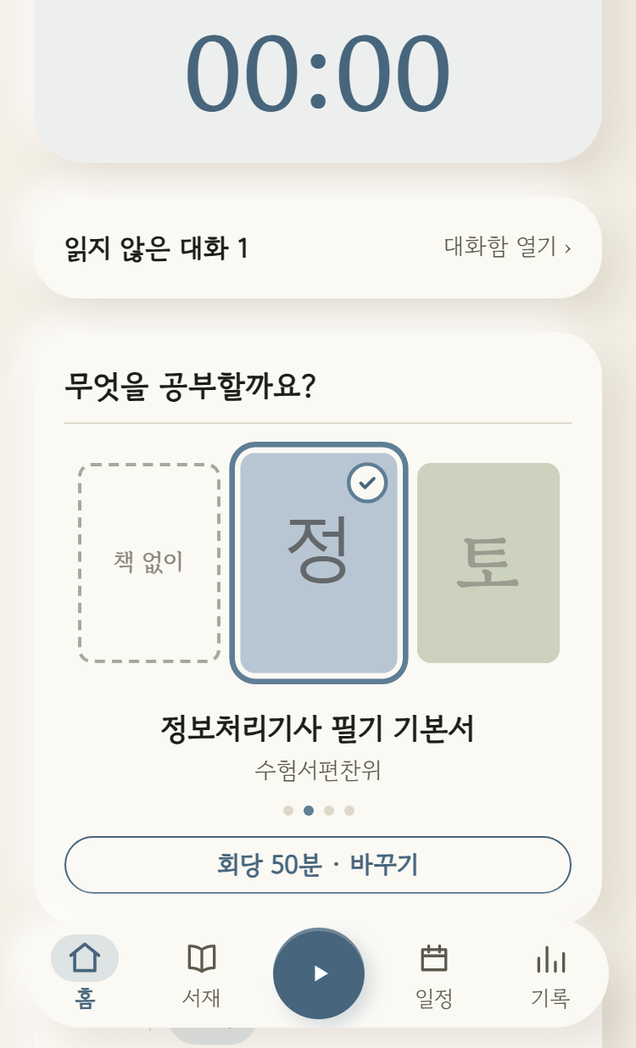
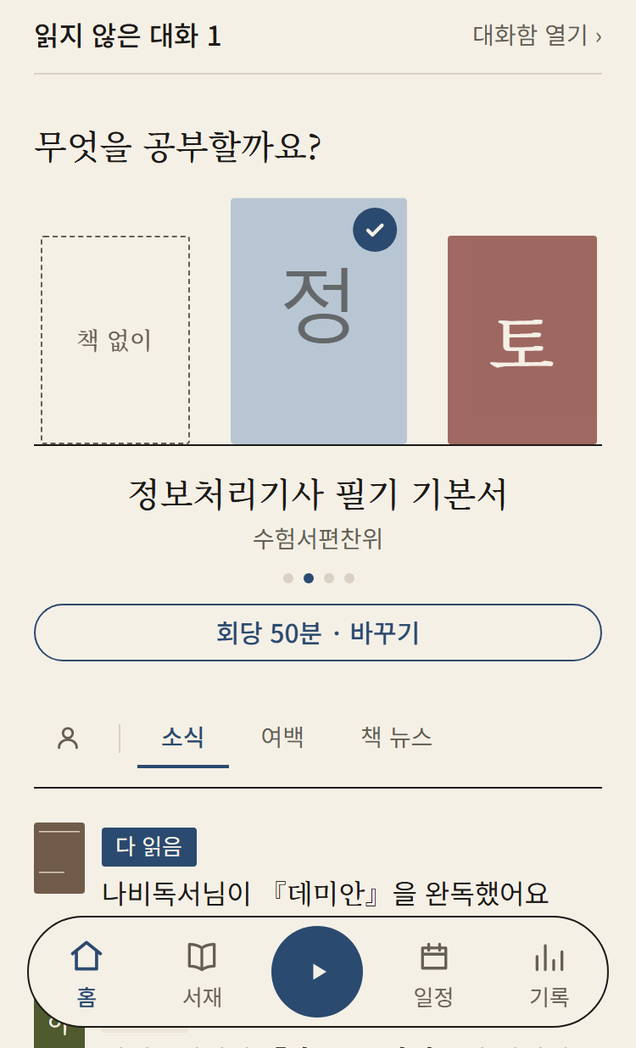
docs(미니앱): 에디토리얼 재테마 PR-5 — 스토어 스크린샷 9장 재촬영
- 9장 전부 재촬영(01-home·02-feed·03-library·04-history·05-goal·06-study-home·
  07-study-library·08-study-calendar·10-landscape) — 미색·잉크·명조, 홈 아치 + 오늘 표, 서재 아치 + 선반
- shoot.mjs: 촬영 전 Noto Serif KR 500 face `loaded` 신호 대기(15초 넘으면 죽는다) → document.fonts.ready,
  `--block-fonts` 음성 대조 경로 추가(U-15). 컷마다 촬영 직전 document.fonts.ready도 기다린다
- 03 서재 구도: 아치 꼭대기 12px · 선반 1·2단 · 걸친 「여백에 글쓰기」 알약(가리면 죽는다)
- 06 공부 홈 구도: 커진 시계가 윗변에 반토막 나지 않게 아치를 화면 밖으로(아치를 못 찾으면 죽는다)
- 배너 조판 색·서체를 미색·잉크·Noto로, 폰 테두리는 그림자 없는 잉크 1px 선
- README 재촬영 항목 · plan.md PR-4 ✅ / PR-5 🔜(U-17 공부 모드·신고 패널 실측, 남은 폰 재확인·§9 대조) · changelog 한 줄

Session-Model: claude-opus-5-5

diff --git a/miniapp/screenshots/README.md b/miniapp/screenshots/README.md
@@ -10,19 +10,19 @@
 
 | 파일 | 화면 | 규격 |
 |---|---|---|
-| `01-home.png` | 홈 — 인사말·아바타 헤더 + 타이머 카드 + 표지 캐러셀 | 세로 |
+| `01-home.png` | 홈 — 인사말·아바타 헤더 + 아치(독서\|공부 · 오늘 읽은 시간 · 게이지) + 오늘 표(남은 시간 · 하루 목표 · 읽지 않은 대화) | 세로 |
 | `02-feed.png` | 홈(아래) — 사람·「소식」·「여백」·「책 뉴스」 피드 박스 | 세로 |
-| `03-library.png` | 서재 — 상태 탭 + 표지 캐러셀 + 인라인 여백 박스 | 세로 |
-| `04-history.png` | 기록 — 잔디 + 9월 날짜별 기록, 오늘(측정 두 건 · 하나는 「책 없음」)을 펼쳐 「시각/길이 · 책 · [책 붙이기]/[바꾸기]」 줄과 「그날 목표」까지 | 세로 |
+| `03-library.png` | 서재 — 「내 서재」 아치(판화) + 상태 선반 1·2단(읽는 중 · 다 읽음) + 고른 표지에 걸친 「여백에 글쓰기」 검정 알약 | 세로 |
+| `04-history.png` | 기록 — 잔디 + 10월 날짜별 기록, 오늘(측정 두 건 · 하나는 「책 없음」)을 펼쳐 「시각/길이 · 책 · [책 붙이기]/[바꾸기]」 줄과 「그날 목표」까지 | 세로 |
 | `05-goal.png` | 목표 — 시/분 휠 피커 | 세로 |
-| `06-study-home.png` | 공부 홈 — 「독서\|공부」 토글이 공부로 선 파랑 타이머 카드 + 「무엇을 공부할까요?」 표지 캐러셀 + 「회당 50분 · 바꾸기」(인사말은 화면 밖) | 세로 |
+| `06-study-home.png` | 공부 홈 — 「무엇을 공부할까요?」 파랑 체크 표지 선반 + 「회당 50분 · 바꾸기」(아치·시계는 화면 밖 — 아래 2026-10-13 항목) | 세로 |
 | `07-study-library.png` | 공부 서재 — 「N독」 칩 + 「N시간 공부」 누적 시간 칩 + 「회독 +1」 채움 버튼 | 세로 |
 | `08-study-calendar.png` | 공부 일정 — 월 달력(지킴 원 · 못지킴 테두리 · 측정 점) | 세로 |
 | `10-landscape.png` | 가로형 배너(앱 화면이 아니라 **세로 컷 3장을 얹은 합성물**) | 가로 |
 
 (`shoot.mjs`는 그림이 아니라 **재촬영기**다 — 아래 「재촬영」 참고.)
 
-세로 규격 높이(1048)로는 홈이 한 화면에 안 들어와 **홈을 두 컷**으로 나눴다 — 위(타이머·캐러셀)와
+세로 규격 높이(1048)로는 홈이 한 화면에 안 들어와 **홈을 두 컷**으로 나눴다 — 위(아치 + 오늘 표)와
 아래(피드 박스). 피드는 폴드 아래라 스크롤해 찍는다.
 
 **2026-09-01 추가 — 공부 모드 3컷(06·07·08)**: 이번 출시로 「공부 모드」가 처음 라이브되는데 스토어
@@ -102,6 +102,29 @@ Soft 값(`#EEF2EB`·`#F9FBF7`·`#D6DFD2`·`#3A4637`)으로 바꿨다 — 폰 그
 「07:40–07:55 15분 · 책 없음 · [책 붙이기]」와 「08:40–08:55 15분 · 사피엔스 · [바꾸기]」. 그 아래 09-24 머리가 탭바 뒤로 반쯤 걸치는 것은
 스크롤 화면의 자연스러운 끝이라 그대로 둔다. 옛 구도(어제 5줄을 펼치고 잔디를 내준 채 달 머리를 위에 세운 컷)는 폐기했다.
 
+**2026-10-13 재촬영 — 에디토리얼(미색·잉크·명조), 9장 전부**: 미니앱 전 화면이 따뜻한 Soft에서 「에디토리얼」(미색 종이 `#F5F0E6` ·
+잉크 `#1D1B18` · 제목·값 Noto Serif KR 500 / 본문 Noto Sans KR 400·500 · 그림자 0 · 잉크 1px 선 탭바)로 바뀌고, 홈은 아치 + 오늘 표,
+서재는 아치 + 상태 선반 3단으로 배치까지 바뀌어 9장 모두 **화면 자체가** 바뀌었다. 배너(10)는 조판 색을 에디토리얼 값(`#F5F0E6` ·
+`#1D1B18` · `#4A453E`)으로, 카피 서체를 Noto Serif KR 500 58 / Noto Sans KR 400 21로, 폰 테두리를 그림자 없는 잉크 1px 선으로 바꿨다.
+→ **촬영기가 글꼴 신호를 기다린다**: 앱이 글꼴 CSS를 load 뒤에 붙여(`fonts.ts`) 그냥 찍으면 대체 글꼴로 찍힐 수 있다. 촬영 전(독서·공부
+모드 진입과 배너 조판 각각) `Noto Serif KR` 500 face 하나가 `status === 'loaded'`가 될 때까지 기다리고 15초를 넘으면 **죽는다** → 그다음
+`document.fonts.ready`. `document.fonts.check()`는 쓰지 않는다(글꼴 요청을 막아도 참이었다 — 아래 음성 대조). 이 PC엔 Noto가 시스템에
+깔려 있어 **그림으로는 대체 글꼴을 못 가린다** — 신호 값으로만 판정한다. 음성 대조는 `node miniapp/screenshots/shoot.mjs --block-fonts`
+(구글 폰트 요청을 막는다): 첫 대기에서 타임아웃으로 죽고 png를 하나도 안 쓰면 신호가 살아 있는 것이다.
+→ 실측(촬영 로그): 양성 — 신호 통과 독서 모드 53ms · 공부 모드 31ms · 배너 40ms(`networkidle` 뒤부터 잰 값). 음성 — `--block-fonts`
+`page.waitForFunction: Timeout 15000ms exceeded`(18.8초, png 변경 0). 같은 조건에서 신호 값을 직접 재면 막음 `false`(Noto Serif KR face
+0개) / 열림 `true`(face 124개 중 loaded 12) — 그리고 `check('500 32px "Noto Serif KR"')`는 **둘 다 true**였다.
+→ **03의 구도를 새로 잡았다**: 상태 탭 줄이 사라지고 선반 세 단(+ 펼친 책)이 됐다. 375×618 창엔 셋째 선반·펼친 책이 안 든다(실측 아치
+24~186 · 선반 214~384 · 396~566 · 578~748 · 펼친 책 776~ · 탭바 540). 이 컷이 파는 것은 「선반에 꽂힌 서재」와 걸친 알약이라, 아치 꼭대기를
+화면 12px 아래에 세워(0에서 찍으면 둘째 선반 바닥 544가 탭바 윗선 540에 걸린다) 둘째 선반 표지 바닥까지 담는다. 실측: 아치 위 12 · 알약
+바닥 372 · 둘째 선반 표지 바닥 532 · 탭바 540. 알약이 탭바 16px 위에 없거나, 둘째 선반 표지가 탭바에 가리거나, 아치가 위로 잘리면 죽는다.
+→ **06의 구도를 고쳤다**: 카드가 아치가 되며 시계가 커져(시계 196~284 · 손잡이 바닥 738 — 542px) 탭바 위 524px에 둘을 함께 못 담는다.
+손잡이 기준으로만 내리면 **시계 숫자가 화면 윗변에 반토막 났다**(첫 촬영 실측 — 잘린 글자는 심사용 그림이 아니다). 그래서 아치를 통째로
+화면 밖으로 넘긴다(아치 바닥 선 4px 아래가 화면 윗변). 공부 모드는 파랑 체크·손잡이 테·탭바 원·「일정」 탭이 말한다. 실측: 스크롤 348 ·
+손잡이 바닥 389 · 탭바 540.
+→ 01·02·04·05·07·08은 기존 기준선 그대로 새 화면에 맞았다(04 실측: 잔디 제목 12 · 펼친 날 머리 285 · 바닥 463 · 탭바 540). 01은 홈의 「무엇으로
+측정할까요?」 선반이 탭바 뒤로 내려가지만, 이 컷이 파는 것은 아치와 오늘 표라 그대로 둔다(09-24 항목의 「01은 캐러셀이 탭바 뒤」와 같은 판단).
+
 ## 재촬영 — `shoot.mjs` 한 방
 
 ```
@@ -113,7 +136,8 @@ node miniapp/screenshots/shoot.mjs     # 9장을 규격대로 덮어쓴다
 (다른 세션이 5300을 쓰는 중이면) 주소를 넘긴다:
 `MINIAPP_MOCK_URL=http://localhost:5301 node miniapp/screenshots/shoot.mjs`
 
-세로 8장 + 가로 배너를 한 번에 만든다. 의존성은 `frontend/node_modules`의 playwright·sharp를 빌려
+세로 8장 + 가로 배너를 한 번에 만든다. 촬영 전 글꼴 신호를 기다리고 15초를 넘으면 죽는다(2026-10-13 항목) —
+음성 대조는 `--block-fonts`. 의존성은 `frontend/node_modules`의 playwright·sharp를 빌려
 쓴다(스크린샷은 번들과 무관한 콘솔 자산이라 미니앱에 촬영용 의존성을 새로 달지 않는다).
 
 ⚠ **이 스크립트가 저장소에 있는 이유**: 2026-08-14 촬영 땐 스크래치패드에 뒀다가 세션과 함께

diff --git a/claude-docs/changelog.md b/claude-docs/changelog.md
@@ -1081,3 +1081,4 @@
 | 2026-10-13 | **feat(미니앱): 에디토리얼 재테마 PR-3 — 서재를 상태 선반 3단으로(아치 · 선반 · 펼친 책)** — 서재의 상태 탭 세 칸 + 한 권씩 캐러셀을 안 1 순서 그대로 아치(폭 260 작은 창 · 올빼미 판화 64 · 「내 서재」 명조 32) → 선반 3단(읽는 중 · 다 읽음 · 읽고 싶어요, 빈 단도 판 위 빈 문구로 남고 머리에 권수 · 2권 이상이면 「펼쳐보기 ›」) → 펼친 책(작은 표지 + 선반과 같은 ✓ · 제목 명조 22 두 줄 · 칩 · 「관리」 외곽선) → 여백(머리 20/28)으로 바꿨다. 세 상태가 늘 함께 서서 모든 책이 한눈에 들고, 선반은 가로로만 넘쳐(`overflow-x`만 — T-159, `pan-x`·스냅 없음) 줄 높이 134가 권수·고르기와 무관하게 고정이다. 「여백에 글쓰기」는 고른 표지에 반 걸친 검정 알약(112×44, 줄의 첫 칸이면 왼쪽 끝)이 되고, 「책 추가」 점선 칸은 읽는 중 맨 앞에서 누르면 곧장 검색이다(옛 「칸 고르기 → 검색해서 담기」 2단계 삭제). 선택 하나가 세 선반을 가로지르고 (`shelfSelection` — 기본은 읽는 중 → 다 읽음 → 읽고 싶어요 첫 책), 추가 직후·격자에서 고른 뒤·관리 시트로 상태를 옮긴 뒤엔 그 선반을 그 표지로 민다(`revealScrollLeft`). 목 모드 실측에서 기본 선택인 책을 관리 시트로 옮기면 ✓가 다음 책으로 넘어가던 것을, 상태 변경 때 고른 값을 그 책으로 못 박아 막았다. 데이터 요청·서버 변경 0, 공부 서재·책방이 가져다 쓰는 export 7개는 그대로. D6는 추천 — 대안 ⓐ(펼친 책을 선반 위로)와 나란히 찍은 컷을 보고 사용자가 2026-10-13 추천으로 확정 |
 | 2026-10-13 | **feat(미니앱): 에디토리얼 재테마 PR-4 — 나머지 화면 옷 마감** — 옛 값 가드(폴백 규칙 · Soft 리터럴)를 제품 소스 전부로 넓히고 가드 빈틈 둘(리터럴 잉크 채움 · global.css 그림자)을 닫았다. 기록 통계 줄 표 · 여백 빈 자리 판화 148 · 종이 작성 카드 테 · 대화 말풍선 · 목표 휠 밴드 선 · 서재 검색 가는 선 행 · 책BTI 태그 · 여백 메뉴 줄 · 서재 칩 paper-2 r2 · 옛 Soft 이름·주석 sweep. 좁은 폰(344 미만)만 게스트 고르기 칸을 줄여 칸 사이 12px 이상(사용자 결정). 리뷰 4회 반영 · 수익 경로 배선 무변경 |
 | 2026-10-13 | **docs: T-264 · T-265 — TaskStop 뒤 남는 vite · 스택 PR이 아래 커밋을 못 받는 함정 기록** — 에디토리얼 재테마 작업에서 두 번 넘게 부딪힌 함정 둘을 사용자 승인으로 기록했다. ① 목 모드 dev 서버를 TaskStop으로 멈춰도 자식 vite가 포트를 쥐고 남는다(이틀 7회 — 포트 → 명령줄 확인 → 그 PID만 종료) ② 스택 PR의 아래 PR에 커밋을 더하면 위 브랜치가 못 받는다(PR-1 `3d97a5df`가 PR-2·3·4에 빠졌던 것 — 아래 커밋마다 위로 병합, squash 머지 뒤엔 옛 머리 기준 `reset --soft` → `rebase --onto`). 같은 PR에서 changelog의 에디토리얼 PR-2·3 행 순서(밤사이 병합으로 뒤바뀜)와 「머지 전 화면 확인 대기」 문구를 실제와 맞췄다 |
+| 2026-10-13 | **docs(미니앱): 에디토리얼 재테마 PR-5 — 스토어 스크린샷 9장 재촬영** — 재테마로 9장 모두 화면 자체가 바뀌어(미색 종이 · 잉크 · 명조, 홈 아치 + 오늘 표, 서재 아치 + 선반 3단) 목 모드로 전부 다시 찍었다. 앱이 글꼴 CSS를 load 뒤에 붙여 그냥 찍으면 대체 글꼴로 찍힐 수 있어, 촬영기가 Noto Serif KR 500 face의 `loaded` 신호를 기다리고 15초를 넘으면 죽게 했다(`document.fonts.check()`는 글꼴을 막아도 참이라 안 쓴다 — `--block-fonts` 음성 대조가 타임아웃으로 죽는 것까지 확인). 서재 컷은 아치 + 선반 1·2단 + 걸친 「여백에 글쓰기」 알약 구도로, 공부 홈 컷은 커진 시계가 화면 윗변에 반토막 나지 않게 아치를 화면 밖으로 넘겼고, 배너 조판도 미색·잉크·Noto로 바꿨다. 콘솔 스크린샷 교체·검수 제출은 사용자 지시 뒤 |
